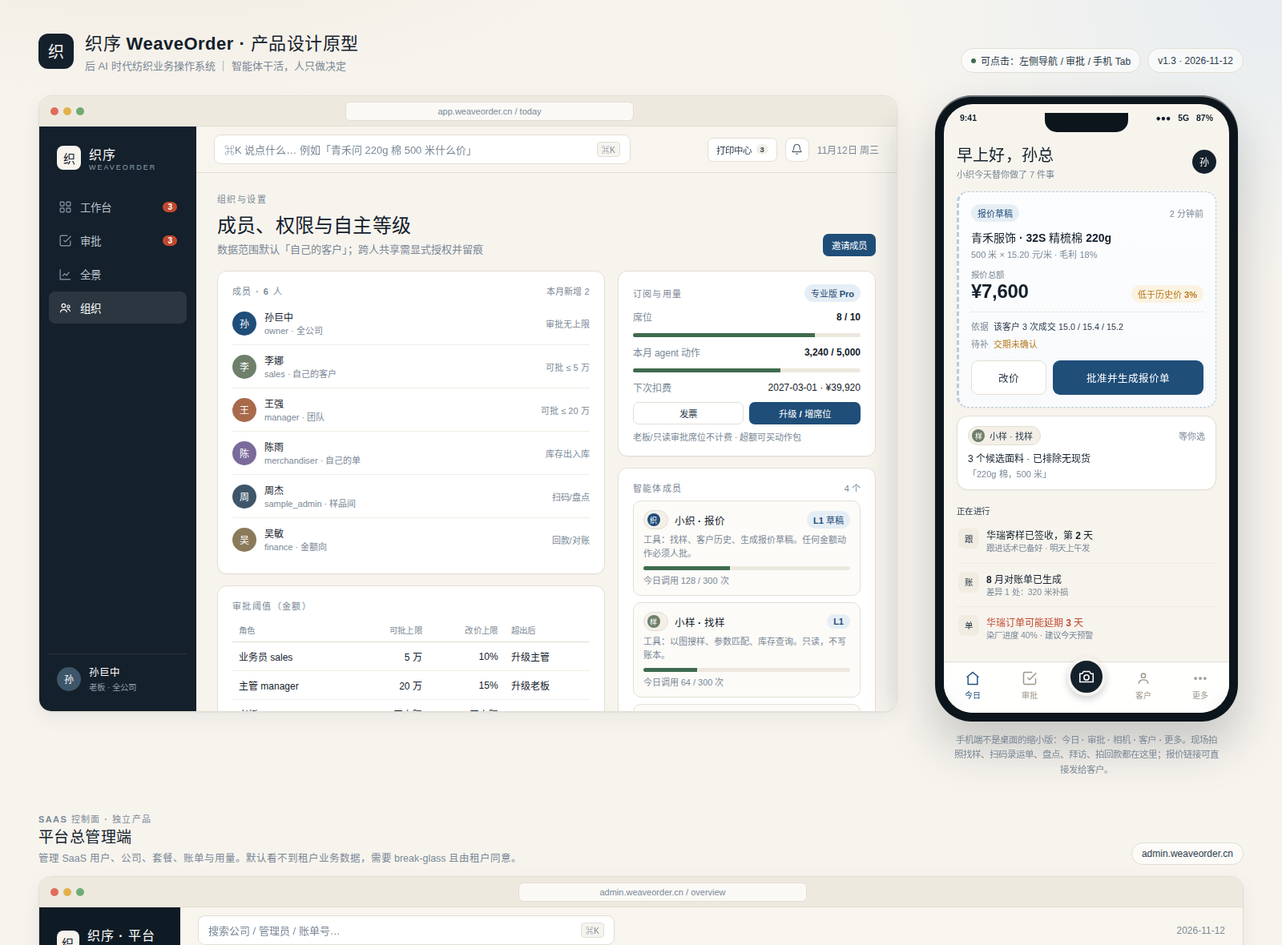
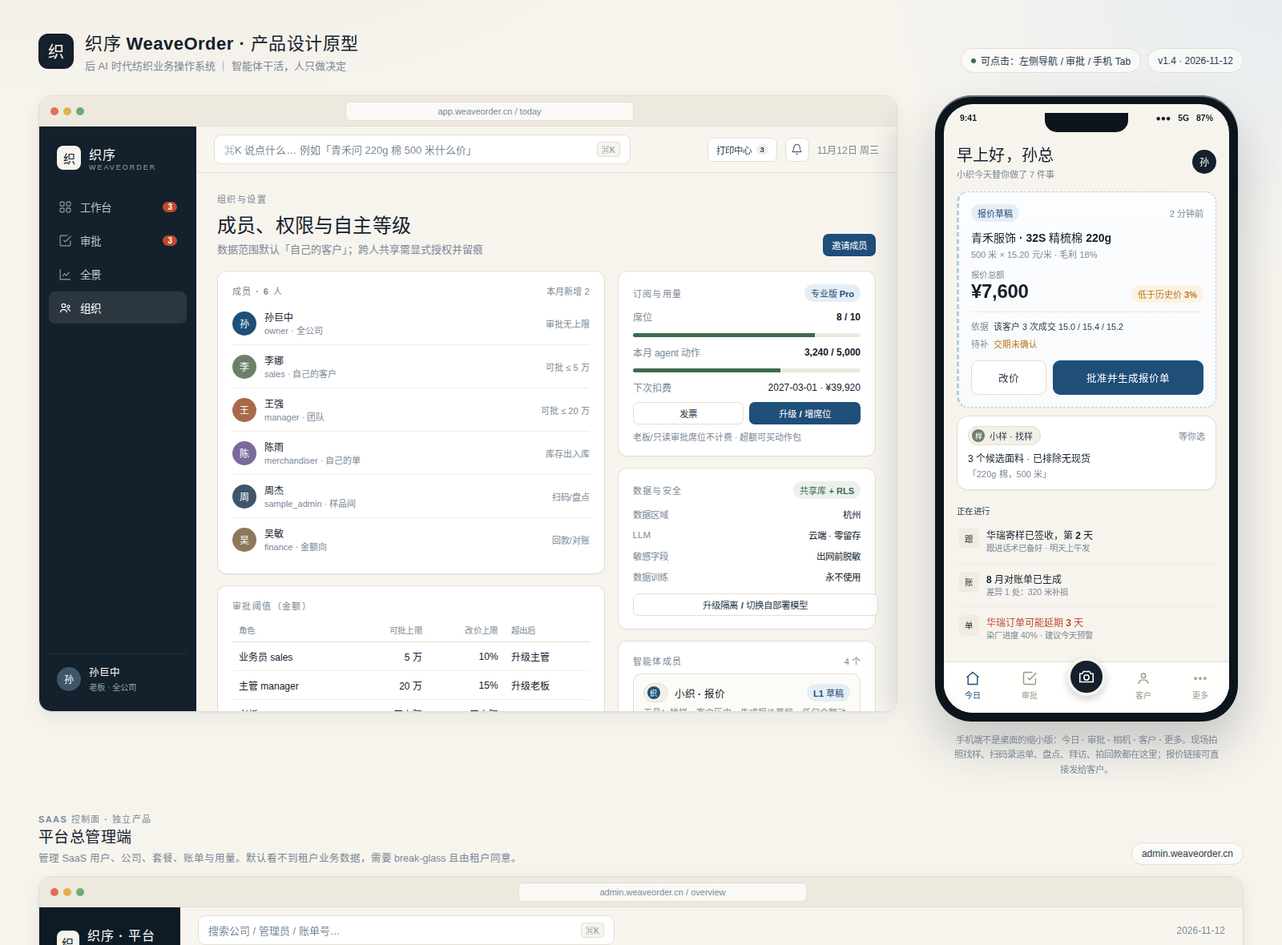
docs(design): v1.4 多租户隔离与 LLM 部署 (WAN-75)
- 数据库分层：共享库+RLS 默认、企业版 schema-per-tenant、旗舰独立库/实例；data plane 路由、迁移、备份与跨租户测试
- LLM 按租户：云端零留存 / BYOK / 自部署 vLLM+Qwen；模型网关做数据分级、PII 脱敏、失败降级与评测
- 现在必须留的口子：tenant_id/RLS、isolation_mode/region、llm_configs、KMS、对象存储前缀、审计
- 平台端数据平面与模型状态、租户端数据与安全卡；指标、分期、风险与拍板项同步

Changed region(s): [[0.5, 0.4881, 0.6875, 0.7627]]

diff --git a/prototype/product-design.html b/prototype/product-design.html
@@ -450,7 +450,7 @@
     </div>
     <div class="page-meta">
       <span class="pill"><span class="dot"></span>可点击：左侧导航 / 审批 / 手机 Tab</span>
-      <span class="pill">v1.3 · 2026-11-12</span>
+      <span class="pill">v1.4 · 2026-11-12</span>
     </div>
   </div>
 
@@ -952,6 +952,18 @@
                   </div>
 
                   <div class="card pad">
+                    <div class="between" style="margin-bottom:6px">
+                      <div class="eyebrow">数据与安全</div>
+                      <span class="badge good">共享库 + RLS</span>
+                    </div>
+                    <div class="between" style="font-size:11.5px;padding:5px 0"><span class="muted">数据区域</span><span>杭州</span></div>
+                    <div class="between" style="font-size:11.5px;padding:5px 0"><span class="muted">LLM</span><span>云端 · 零留存</span></div>
+                    <div class="between" style="font-size:11.5px;padding:5px 0"><span class="muted">敏感字段</span><span>出网前脱敏</span></div>
+                    <div class="between" style="font-size:11.5px;padding:5px 0"><span class="muted">数据训练</span><span>永不使用</span></div>
+                    <button class="btn ghost sm" style="width:100%;margin-top:8px">升级隔离 / 切换自部署模型</button>
+                  </div>
+
+                  <div class="card pad">
                     <div class="between" style="margin-bottom:8px"><div class="eyebrow">智能体成员</div><span class="tiny muted">4 个</span></div>
                     <div class="agent-card">
                       <div class="top"><span class="agent a1"><i>织</i></span><b>小织 · 报价</b><span class="badge" style="margin-left:auto">L1 草稿</span></div>
@@ -1420,6 +1432,15 @@
               <div class="ckpi"><div class="k">付费租户</div><div class="v num">42</div><div class="d">本月 +3</div></div>
               <div class="ckpi"><div class="k">试用中</div><div class="v num">9</div><div class="d">转化率 22%</div></div>
               <div class="ckpi"><div class="k">月度毛流失</div><div class="v num">0.8%</div><div class="d">目标 ≤ 2%</div></div>
+            </div>
+
+            <div class="card pad" style="margin-bottom:14px;display:flex;align-items:center;gap:22px;flex-wrap:wrap">
+              <span class="eyebrow">数据平面</span>
+              <span style="font-size:11.5px">共享库 + RLS <b class="num">36</b></span>
+              <span style="font-size:11.5px">Schema / 租户 <b class="num">5</b></span>
+              <span style="font-size:11.5px">独立库 <b class="num">1</b></span>
+              <span style="font-size:11.5px">自部署 LLM <b class="num">4</b></span>
+              <span class="tiny muted" style="margin-left:auto">跨租户测试 100% 业务表 · 敏感字段出网前脱敏</span>
             </div>
 
             <div class="cgrid">

diff --git a/docs/product-design.md b/docs/product-design.md
@@ -1,6 +1,7 @@
 # 后 AI 时代纺织管理软件 · 产品设计
 
-> 版本：v1.3 ｜ 日期：2026-11-12 ｜ 作者：巧匠（产品设计 & 增长）
+> 版本：v1.4 ｜ 日期：2026-11-12 ｜ 作者：巧匠（产品设计 & 增长）
+> v1.4 变更：新增多租户隔离（共享库+RLS / schema-per-tenant / 独立库）与 LLM 部署（云端 / BYOK / 自部署）设计，见 §15。
 > v1.3 变更：打印代理（Print Agent）与每家公司个性化（模板工作室 + AI 识样张）、总后台版本化价格表与租户合同价、开票设置可配（§4.4 / §14.1 / §14.3 / §14.5）。
 > v1.2 变更：打印与单证流水线（§4.4 / §7.7 / §8.6 / §8.7）、SaaS 商业化与平台总管理端（§14）、打印与 SaaS 数据模型和指标。
 > v1.1 变更：配置继承链（§3.5）、移动端 5 入口与能力矩阵（§5.2）、客户报价链接（§7.6 / §8.5）、分享指标与增长闭环（§11 / §13.6）。
@@ -1032,10 +1033,15 @@ flowchart TB
 | `platform_users` / `platform_audit` | name, email, role, status, actor, action, target_tenant, meta | P1 |
 | `feature_flags` | key, tenant_id, enabled, rollout | P1 |
 | `tenant_notes` / `support_tickets` | tenant_id, author, body, status, priority | P1 |
+| `tenant_data_planes` | id, isolation_mode, region, schema_name, dsn_secret_ref, migration_version, status | P0 |
+| `tenant_security_profiles` | tenant_id, data_region, allow_external_llm, retention_days, kms_key_ref | P0 |
+| `llm_configs` | tenant_id, provider, base_url, model, key_ref, allow_external, log_prompts, fallback | P0 |
+| `model_deployments` | tenant_id, kind, vendor, endpoint, gpu, status, eval_score, last_check_at | P1 |
+| `data_export_jobs` | tenant_id, scope, status, file_key, requested_by, expires_at | P1 |
 
 关键索引：`customers(tenant_id, owner_id)`、`quotes(tenant_id, status, created_at)`、`pricing_policies(tenant_id, scope_type, scope_id, key)` 唯一、`quote_shares(token_hash)` 唯一、`quote_share_events(share_id, created_at)`、`orders(tenant_id, due_date, status)`、`audit_log(tenant_id, entity, entity_id, created_at)`、`print_jobs(tenant_id, status, created_at)`、`print_jobs(idempotency_key)` 唯一、`boxes(qr_payload)` 唯一、`subscriptions(tenant_id, status)`、`usage_events(tenant_id, meter, occurred_at)`、`invoices(tenant_id, status, due_at)`。
 
-> 迁移策略：`tenantId` 现在加、单租户填默认值；`ownerId` 先允许空，空=全公司可见（兼容演示数据），新数据强制填。
+> 迁移策略：`tenantId` 现在加、存量填默认租户，新数据必须带；`ownerId` 先允许空，空=全公司可见（兼容演示数据），新数据强制填。
 > `pricing_policies` 的 `value_json` 存 `{ "marginPct": 20, "unit": "percent" }` 这类结构化值，不用字符串；`locked=true` 表示管控层，下级不可覆盖。
 > `quote_shares` 只存 token 的哈希，明文 token 只在生成那一刻返回；链接不能从数据库反推。
 > `print_jobs.idempotency_key` 由「单据 + 版本 + 模板 + 份数 + 操作人」生成，双击不会重复出纸。
@@ -1074,6 +1080,11 @@ flowchart TB
 | SaaS | 席位利用率（活跃/已购） | ≥ 80% |
 | SaaS | 客单价 / 毛利（扣除 agent 与存储成本） | ≥ 70% |
 | SaaS | 回款周期（DSO） | ≤ 30 天 |
+| 安全 | 跨租户数据泄露事件 | 0 |
+| 安全 | 跨租户越权测试覆盖 | 100% 业务表 |
+| LLM | 敏感字段出网次数（脱敏前） | 0 |
+| LLM | 自部署任务 p95 延迟 | ≤ 8 秒 |
+| LLM | 外部模型处理占比（可按租户审计） | 可解释 |
 | 商业 | 每席位月处理单量 | 基线 ×2 |
 
 埋点事件（最小集）：`intent_submitted` `draft_created` `draft_revised`（字段/幅度）`draft_approved` `draft_rejected`（原因）`agent_failed`（工具/错误码）`policy_resolved`（层级/是否被夹）`quote_share_created` `quote_share_viewed` `quote_accepted` `quote_question` `mobile_capture_used` `mobile_scan_used` `visit_checked_in` `offline_synced` `offline_conflict` `print_job_created` `print_job_completed` `print_job_failed` `print_reprinted` `delivery_confirmed` `subscription_started` `trial_started` `plan_upgraded` `invoice_paid` `handover_completed`。
@@ -1086,9 +1097,9 @@ flowchart TB
 
 | 阶段 | 已有路线 | 本次设计新增 | 端 |
 | ---- | -------- | ------------ | -- |
-| **P0 阶段一**（4–6 周） | 真实数据入口、真智能体报价、可改价审批、PDF 出口、最小身份 | 设计系统 v1、审批卡/diff/出处、3+1 IA、定价继承表（系统/公司/个人 + 管控夹取）、报价链接（客户视图/接受/撤回）、手机 PWA 审批 + 拍照找样 + 客户分享、`tenants/users/memberships/pricing_policies/quote_shares` | PC + 手机 PWA + 客户 |
-| **P1 阶段二**（4–6 周） | 寄样跟进产品化、中断可视化、建议落库、人工兜底 | 订单/发货单/箱唛/打印中心（模板、队列、打印代理安装包）、拣货扫码复核、模板参数覆盖 + 自定义字段、移动扫码/拍签收/盘点/离线队列、客户留言与回复、拜访签到、回款凭证、agent 成员与自主等级配置 | PC + 手机 PWA + 客户 |
-| **P2 阶段三**（4–6 周） | 决策增量闭环、建议质量可度量 | 客户 360 与上下文可视化、链接访问时间线与分享分析、对账/回款、库存出入库、自然语言取数、团队数据范围与客户交接、**SaaS 订阅与账单（控制面）、平台总管理端 v1、价格表/租户覆盖/开票设置、模板工作室 + AI 识样张** | PC 为主 |
+| **P0 阶段一**（4–6 周） | 真实数据入口、真智能体报价、可改价审批、PDF 出口、最小身份 | 设计系统 v1、审批卡/diff/出处、3+1 IA、定价继承表（系统/公司/个人 + 管控夹取）、报价链接（客户视图/接受/撤回）、手机 PWA 审批 + 拍照找样 + 客户分享、**共享库 + RLS + 跨租户测试、LLM provider 接口 + 敏感字段脱敏**、`tenants/users/memberships/pricing_policies/quote_shares/tenant_data_planes/llm_configs` | PC + 手机 PWA + 客户 |
+| **P1 阶段二**（4–6 周） | 寄样跟进产品化、中断可视化、建议落库、人工兜底 | 订单/发货单/箱唛/打印中心（模板、队列、打印代理安装包）、拣货扫码复核、模板参数覆盖 + 自定义字段、移动扫码/拍签收/盘点/离线队列、客户留言与回复、拜访签到、回款凭证、agent 成员与自主等级配置、**schema-per-tenant 升级与迁移、客户自带 Key / 自部署 LLM adapter（vLLM + Qwen）** | PC + 手机 PWA + 客户 |
+| **P2 阶段三**（4–6 周） | 决策增量闭环、建议质量可度量 | 客户 360 与上下文可视化、链接访问时间线与分享分析、对账/回款、库存出入库、自然语言取数、团队数据范围与客户交接、**SaaS 订阅与账单（控制面）、平台总管理端 v1、价格表/租户覆盖/开票设置、模板工作室 + AI 识样张、独立库/区域选择/每租户 KMS** | PC 为主 |
 | **P3 阶段四**（6–8 周） | 订单履约、对账 | 客户自助门户（寄样进度/历史报价/对账单）、供应商协同、Tauri 外设壳、小程序（仅当客户侧验证成立）、洗水唛/吊牌、渠道商/多仓 | PC + 手机 + 客户侧 |
 
 **每阶段的验收都是「一个人做一次具体动作」**（沿用既有原则）：
@@ -1309,7 +1320,7 @@ features: { customer_portal: true, sso: false, custom_domain: true, print_agent:
 ```
 平台总管理端
 ├── 总览       MRR / ARR · 活跃租户 · 试用漏斗 · 流失 · 毛利 · 事故
-├── 租户       列表/搜索/筛选；详情：套餐、席位、用量、健康度、备注、功能开关
+├── 租户       列表/搜索/筛选；详情：套餐、席位、用量、健康度、隔离模式（共享/schema/独立）、LLM 模式（云端/BYOK/自部署）、区域、备注、功能开关
 ├── 订阅账单   合同、账单、回款、逾期、退款、发票
 ├── 用量       agent 动作、存储、短信；Top 消耗与异常
 ├── 套餐与价格 计划、价格表版本、租户覆盖、试算；改价不影响存量合同
@@ -1400,7 +1411,145 @@ sequenceDiagram
 
 ---
 
-## 15. 风险与待拍板
+## 15. 多租户隔离与 LLM 部署（数据安全）
+
+客户问「数据放哪、会不会混、能不能用我们自己的模型」，这不是技术细节，是**成交门槛**。结论先给：
+
+1. **数据库不要二选一**。默认「共享库 + 行级隔离（RLS）」，付费企业版可升级「每家公司一个 schema」，最高档「独立数据库/独立实例/私有化」。同一套代码，三种数据平面。
+2. **LLM 也不二选一**。默认云端 API（零留存、不训练），企业版可接**客户自己的 API Key / 专属端点 / 自部署模型**。按租户配置，不按全局开关。
+3. **现在就要留口子**，否则以后改成本很高：所有表带 `tenant_id`、从第一天开 RLS、租户表加 `data_plane_id` / `isolation_mode` / `region`、LLM 走 provider 接口而不是全局单例。
+
+### 15.1 四种隔离模型与推荐
+
+| 模型 | 隔离强度 | 成本 | 运维复杂度 | 适合 |
+| ---- | -------- | ---- | ---------- | ---- |
+| 共享库 + 共享 schema + `tenant_id` + RLS | 中（逻辑隔离） | 最低 | 最低 | 绝大多数客户、试用、Starter/Pro |
+| 每租户一个 schema（同库或同实例） | 中高 | 中 | 中（迁移 × N） | 有合规要求的中大型客户 |
+| 每租户一个数据库 | 高 | 较高 | 较高 | 金融级/强合规客户 |
+| 每租户独立实例 / 私有化部署 | 最高 | 最高 | 最高 | 大企业、内网、信创 |
+
+**推荐：分层，不是一刀切。**
+
+- **默认（P0）**：共享库 + RLS。`tenant_id` 出现在每张业务表，连接进来先 `SET LOCAL app.tenant_id`，策略强制过滤，应用角色没有 `BYPASSRLS`。
+- **企业版（P1）**：schema-per-tenant。同一套代码，通过 `tenant_data_planes` 把租户路由到不同 schema；迁移按租户编排。
+- **旗舰/私有化（P2）**：独立 DB 或独立实例，客户可自选区域、自带备份策略。
+
+为什么不全用 schema：500 家公司 = 500 个 schema，一次迁移要跑 500 次，连接池和监控都变复杂，跨租户运营报表也难做。**schema 是卖给企业的「隔离感」，不是默认架构。**
+
+### 15.2 共享库 + RLS 怎么做到「不敢混」
+
+不是「查询时记得加 tenant_id」，而是数据库层强制：
+
+```sql
+-- 每个请求的事务内
+SET LOCAL app.tenant_id = '<uuid>';
+
+-- 每张业务表
+ALTER TABLE quotes ENABLE ROW LEVEL SECURITY;
+ALTER TABLE quotes FORCE ROW LEVEL SECURITY;
+CREATE POLICY tenant_isolation ON quotes
+  USING (tenant_id = current_setting('app.tenant_id')::uuid)
+  WITH CHECK (tenant_id = current_setting('app.tenant_id')::uuid);
+```
+
+配套：
+
+1. **应用角色无 `BYPASSRLS`**；只有迁移/运维角色例外，且单独审计。
+2. **租户上下文由网关注入**，不接受前端传 `tenant_id`；JWT 只带 user，tenant 从会话/域名解析。
+3. **跨租户测试常驻**：CI 里用两个租户互相查，任何一张表漏加策略就失败。
+4. **对象存储按前缀隔离**：`s3://bucket/tenant/<id>/...`，签名 URL 绑定租户，禁止拼接他人 key。
+5. **向量检索按租户分区**：embedding 查询必须带 `tenant_id`，不做跨公司相似度。
+6. **缓存 key 带租户**：Redis key 前缀 `t:<id>:`，避免缓存串号。
+7. **审计**：所有跨租户的运维访问（break-glass）单独记录，见 §14.6。
+
+### 15.3 schema-per-tenant 的工程细节
+
+| 问题 | 做法 |
+| ---- | ---- |
+| 请求路由 | 登录时解析租户 → 从 `tenant_data_planes` 取 schema/连接串 → 连接池按 data plane 分组 |
+| 迁移 | 迁移任务按 schema 串行/分批执行；失败可单租户回滚；记录每个 schema 的迁移版本 |
+| 新建租户 | 复制模板 schema（`CREATE SCHEMA ... TEMPLATE` 或迁移 + seed），原子切换状态 |
+| 从共享迁到 schema | 导出该租户数据 → 导入新 schema → 校验行数/金额 → 切换指针 → 保留回滚窗口 |
+| 备份/恢复 | 共享库 PITR + 按租户导出；schema 可单 schema dump；独立库各自备份 |
+| 监控 | 每个 data plane 的连接数、慢查询、迁移版本；租户详情里可见 |
+| 噪声邻居 | 每租户限流、每 data plane 连接上限；重租户可单独迁到独立实例 |
+
+迁移路径必须**单向可升级**：共享 → schema → 独立库 → 独立实例。客户规模变大时只换数据平面，不换产品。
+
+### 15.4 LLM 部署：四种模式，按租户选
+
+| 模式 | 数据路径 | 适合 | 代价 |
+| ---- | -------- | ---- | ---- |
+| 云端共享 API（默认） | 我们 → 模型厂商，零留存/不训练/区域端点 | 大多数客户 | 依赖厂商合规 |
+| 云端专属端点 | 我们 → 厂商专属实例 | 中大型客户 | 成本高、容量固定 |
+| 客户自带 Key（BYOK） | 我们 → 客户的云账号/端点 | 已有 AI 合同的客户 | 需要客户运维 |
+| 自部署（VPC/内网） | 客户的 GPU 上跑开源模型 | 数据不出内网、信创 | GPU、运维、模型更新 |
+
+**自部署不是从零做**：现有代码里 LLM / embedding 已经是 provider 接口（默认 `local-rule` / `local-stub`），接入 vLLM / SGLang / TGI 只是实现一个 `LlmProvider` + 一个 `EmbeddingProvider`。模型建议 Qwen 系列（中文与工具调用稳），按任务分大小模型。
+
+**模型网关（Model Gateway）**：所有 agent 不直接调厂商，统一走网关，网关负责：
+
+1. 按租户读 `llm_configs`：provider、base_url、model、key（KMS 加密）、region、是否允许外部。
+2. 按数据分级路由：客户原话/报价可走云端；成本底线、合同、客户名单默认只走自部署或本地规则。
+3. PII 脱敏：手机号、银行账号、身份证在出网前替换；返回后再还原。
+4. 不跨租户复用提示缓存；日志默认不存 prompt 原文，只存 hash 与 token 数。
+5. 失败降级：云端超时 → 重试 → 降级到规则/小模型 → 告知「建议由人处理」，不静默失败。
+6. 质量评估：换模型/换端点前跑固定评测集（报价准确率、工具调用成功率），不靠感觉。
+
+**租户端开关**（企业版）：数据与安全 → 模型设置：
+
+```
+模型来源：云端（零留存） / 自带 Key / 自部署
+允许数据出网：是 / 否
+数据区域：杭州 / 新加坡 / 客户内网
+模型：Qwen2.5-32B（自部署） / 云端默认
+调用日志：不记录原文 / 记录 30 天（可选）
+```
+
+**敏感数据策略**：即使用户选云端，也默认「最小化 + 脱敏」；「不允许外部模型」的租户，agent 只用本地规则/自部署模型，功能降级但可用，界面明确提示「当前为私有模式，部分建议质量下降」。
+
+### 15.5 现在版本必须留的口子（很便宜，后面补很贵）
+
+| 事项 | 现在做什么 | 以后省什么 |
+| ---- | ---------- | ---------- |
+| 租户列 | 所有业务表加 `tenant_id`（已有计划） | 不用改表结构 |
+| RLS | 第一天就开，CI 跨租户测试 | 不用补历史漏网查询 |
+| 数据平面 | `tenants` 加 `isolation_mode` / `data_plane_id` / `region` | 升级 schema/独立库只改路由 |
+| 对象存储 | key 前缀带租户，签名 URL 带租户 | 不用迁移文件 |
+| LLM | provider 接口 + `llm_configs` 按租户读，不写全局单例 | 接自部署只加 adapter |
+| 密钥 | API Key 存 KMS/密钥管理，不落库明文 | 满足企业安全评审 |
+| 审计 | 记录 tenant、data plane、provider、model、prompt hash | 可回答「数据经过谁」 |
+| 导出/删除 | 租户级导出/删除任务 | 满足合规与流失交接 |
+
+### 15.6 安全基线（销售材料可直接用）
+
+- 传输 TLS 1.2+，静态加密 AES-256；敏感字段（手机号、银行账号）字段级加密。
+- 租户隔离：RLS + 跨租户测试；企业版 schema/独立库；对象存储前缀隔离。
+- 权限：最小权限、MFA、平台侧 break-glass 需租户同意、双人复核。
+- 审计：登录、导出、打印、审批、平台访问全留痕；审计不可改。
+- 备份：每日全量 + PITR；每季度恢复演练；企业版可指定区域。
+- 模型：零留存协议、不训练、区域端点；自部署可选；prompt 默认不留原文。
+- 合规：DPA、子处理商清单、数据删除承诺、渗透测试报告（上线前）。
+
+### 15.7 分期建议
+
+| 阶段 | 数据隔离 | LLM |
+| ---- | -------- | --- |
+| P0 | 共享库 + RLS + 跨租户测试；`isolation_mode` 字段 | provider 接口 + 云端零留存；敏感字段脱敏 |
+| P1 | schema-per-tenant 路由与迁移；单租户导出/恢复 | 客户自带 Key；自部署 adapter（vLLM + Qwen） |
+| P2 | 独立数据库/实例、区域选择、每租户 KMS | 专属端点、模型评测、私有化部署包 |
+
+### 15.8 需要拍板
+
+1. 默认付费客户用共享库 + RLS，是否接受？（建议接受；企业版再升 schema）
+2. 自部署模型由谁运维：客户 IT，还是我们提供托管私有云？
+3. 数据区域先开哪几个？（建议杭州 + 新加坡）
+4. 隔离/自部署是否作为 Enterprise 的付费项？加价多少？
+5. 是否承诺「绝不用客户数据训练」并写进合同？（建议写）
+
+---
+
+## 16. 风险与待拍板
 
 | 风险 | 影响 | 对策 |
 | ---- | ---- | ---- |
@@ -1421,6 +1570,11 @@ sequenceDiagram
 | 开票税率/类型配错 | 税务风险、客户拒收 | 默认 6% 专票、按租户 `tax_profile`、财务复核、红冲留痕 |
 | 平台客服越权看数据 | 信任崩塌 | 控制面与租户库分离 + break-glass 租户同意 + 双人复核 + 全程审计 |
 | 定价过低覆盖不了 agent 成本 | 越卖越亏 | 每席位额度 + 动作包 + 月度毛利看板；毛利 < 60% 触发调价 |
+| 共享库漏加租户条件导致串号 | 严重安全事故 | RLS 强制 + 应用角色无 BYPASSRLS + CI 两租户互查 + 对象存储/缓存前缀隔离 |
+| schema 迁移一半失败 | 部分租户不可用 | 按租户串行迁移 + 单租户回滚 + 每个 schema 记录版本 |
+| 自部署模型质量下降 / 没人运维 | 客户体验差、口碑受损 | 固定评测集 + 模型版本锁定 + 托管私有云选项 + 降级到规则 |
+| 客户敏感数据出网 | 合规与信任风险 | 默认脱敏 + 数据分级路由 + 租户「禁止外部模型」开关 + 出网审计 |
+| 模型厂商停服/涨价 | 成本与连续性 | provider 抽象 + 多厂商 + 自部署兜底 + 按租户可切 |
 | 渠道 API 审批 | 自动发送无法上线 | 先「复制文案 + 记录已发」，不阻塞链路 |
 | 多租户数据串号 | 严重安全事故 | 所有业务表 `tenant_id` + 行级隔离；控制面单独 schema；集成测试覆盖跨租户越权 |
 
@@ -1434,6 +1588,8 @@ sequenceDiagram
 6. 定价：**暂按 ¥299 / ¥499 / 定制、年付送 2 个月**；价格做成**总后台可配的版本化价格表**，支持租户级合同价/锁价，改价不影响存量。见 §14.1。
 7. 开票：按「老规矩」默认 **6% 增值税专用发票、价税分离、收款后开票**；发票类型/税率/开票主体/时机在**总后台「开票设置」**可改，按租户生效。见 §14.3。
 8. 打印：**做一个真正的打印代理（Print Agent）**，本地常驻、自动发现打印机、离线补打、本地渲染与校准；每家公司通过「参数覆盖 → 字段布局 → 模板工作室 → 模板包」自定义，并可用 **AI 识样张**从旧单据生成模板。见 §4.4。
+9. 数据隔离：**默认共享库 + RLS**，企业版可升级 **schema-per-tenant**，旗舰/私有化用独立库/实例；同一套代码按 `data_plane` 路由。见 §15。
+10. LLM：**按租户配置**——云端（零留存/不训练）/ 客户自带 Key / 自部署（vLLM + Qwen）；统一走模型网关，敏感字段脱敏，禁止外部模型的租户可完全内网运行。见 §15.4。
 
 **还需要你拍板的事**：
 
@@ -1452,6 +1608,12 @@ sequenceDiagram
 8. 试用 14 天，还是改成「7 天陪跑 + 14 天试用」？
 9. 开票按 6% 专票是否就是你说的「老规矩」？如果公司实际按 13% 开，请让财务在总后台改税率即可。
 
+数据安全：
+10. 默认付费客户用「共享库 + RLS」是否接受？还是所有客户都要 schema？
+11. 自部署 LLM 由谁运维（客户 IT / 我们托管 / 混合）？先支持哪个模型与 GPU 规格？
+12. 数据区域先开哪几个（建议杭州 + 新加坡）？是否需要信创/内网私有化？
+13. 「绝不用客户数据训练」是否写进合同与官网？
+
 ---
 
 ## 附：与既有文档的关系
@@ -1460,3 +1622,4 @@ sequenceDiagram
 - 阶段排序与验收口径：沿用 `usability-roadmap.md`；本文只在其上补产品设计与双端落点。
 - 平台形态（移动端/桌面壳/打印/部署）：`platform-and-engineering-plan.md` 的结论仍然有效；本文的差异是**把移动端从「阶段三之后」提前到 P0 的 PWA**，并在 v1.1 扩为 5 入口 + 角色化现场能力，理由是公司化后「老板在路上批单」是采纳瓶颈，且 PWA 成本远低于 Taro 三端。
 - 客户侧：`platform-and-engineering-plan.md` 曾把客户自助端排在 P3；v1.1 按你的决定把**单条报价链接**提前到 P0（只读、无登录、可接受），完整的客户门户（寄样/历史/对账）仍在 P3。
+- 数据隔离与模型部署：既有文档按「试点单租户」假设，v1.4 改为**SaaS 多租户分层隔离**（共享库+RLS / schema / 独立库）与**按租户选择 LLM**（云端 / BYOK / 自部署），见 §15；private deployment 仍按 Enterprise 交付。
